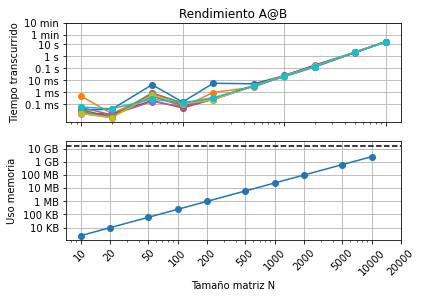
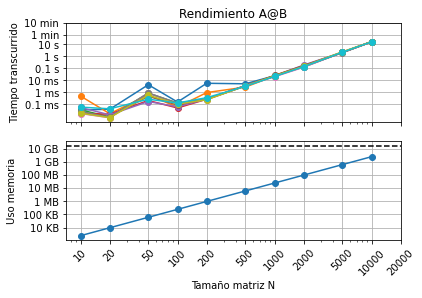
Add files via upload

diff --git a/graficar.py b/graficar.py
@@ -23,7 +23,7 @@ plt.subplot(2,1,1)
 for i in range(len(tiempo_t)):
     plt.loglog(N,tiempo_t[i],marker="o")
 plt.grid(1)
-plt.xticks(visible=0)
+plt.xticks([10,20,50,100,200,500,1000,2000,5000,10000,20000],['10', '20', '50', '100', '200', '500', '1000', '2000', '5000', '10000',"20000"],rotation=45,visible=0)
 plt.yticks([0.0001,0.001,0.01,0.1,1,10,60,600],["0.1 ms","1 ms","10 ms","0.1 s","1 s","10 s","1 min","10 min"])
 plt.ylabel("Tiempo transcurrido")
 plt.title("Rendimiento A@B")
